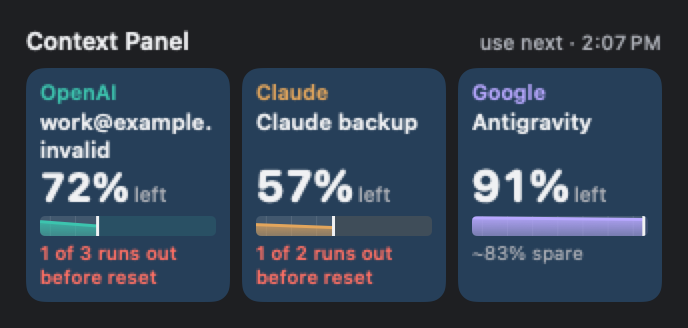
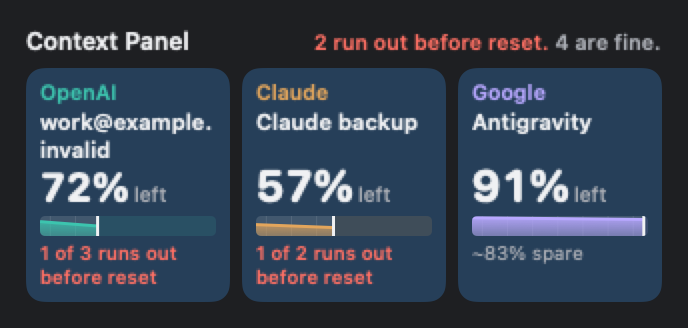
Review fixes: no reassurance past what is measured, empty windows, first-to-run-out window, headline first on widgets

Changed region(s): [[0.4578, 0.0915, 0.9767, 0.1524]]

diff --git a/Sources/ContextPanelCore/AccountPresentation.swift b/Sources/ContextPanelCore/AccountPresentation.swift
@@ -77,9 +77,10 @@ public enum AccountTerms {
     /// The combined outlook, true whatever each plan's size: "Week lasts to reset" when no account runs
     /// out before its own reset, "1 of 3 run out" (before their resets) when some do, "all out by Sat ~4 PM" when all do.
     public static func combinedOutlook(_ total: AccountProviderTotal, now: Date) -> String {
-        guard total.paceRatio != nil else { return measuring }
         if let date = total.allOutBy { return "all out by " + AccountPaceText.approximately(date, now: now) }
+        // A known run-out is said even while a sibling is still measuring.
         if total.runningOutCount > 0 { return "\(total.runningOutCount) of \(total.countedCount) run out" }
+        guard total.paceRatio != nil else { return measuring }
         return longColumn(weekly: total.longIsWeekly) + " " + lastsToReset
     }
     /// "1 of 2" beside a compact combined number when some accounts are not current; empty otherwise.
@@ -158,7 +159,8 @@ public enum AccountTerms {
         if othersFine {
             return (total == 1 ? "Your account lasts to its reset." : "All \(total) accounts last to their reset.", "")
         }
-        return ("Nothing runs out before its reset.", restParts(headline))
+        // Never reassure past what is measured: say how many are known to last, then the rest.
+        return ("\(headline.lastingCount) of \(total) accounts last to their reset.", restParts(headline, includingLasting: false))
     }
 
     /// The same sentence for a widget's few words: "2 run out before reset." / "4 are fine."
@@ -173,12 +175,12 @@ public enum AccountTerms {
         if headline.measuringCount == 0 && headline.notCurrentCount == 0 {
             return (headline.total == 1 ? "Lasts to reset." : "All \(headline.total) last to reset.", "")
         }
-        return ("None run out.", restParts(headline))
+        return ("\(headline.lastingCount) of \(headline.total) last to reset.", restParts(headline, includingLasting: false))
     }
 
-    private static func restParts(_ headline: AccountHeadline) -> String {
+    private static func restParts(_ headline: AccountHeadline, includingLasting: Bool = true) -> String {
         var parts: [String] = []
-        if headline.lastingCount > 0 { parts.append("\(headline.lastingCount) last\(headline.lastingCount == 1 ? "s" : "") to reset") }
+        if includingLasting, headline.lastingCount > 0 { parts.append("\(headline.lastingCount) last\(headline.lastingCount == 1 ? "s" : "") to reset") }
         if headline.measuringCount > 0 { parts.append("\(headline.measuringCount) \(measuring)") }
         if headline.notCurrentCount > 0 { parts.append("\(headline.notCurrentCount) not current") }
         return parts.joined(separator: ", ").prefix(1).uppercased() + parts.joined(separator: ", ").dropFirst() + "."
@@ -200,10 +202,12 @@ public enum AccountTerms {
     public static func outcome(_ account: AccountOverview.Account, _ horizon: AccountHorizon, now: Date) -> (title: String, detail: String) {
         guard horizon.isCurrent else { return (account.stateText, accountTiming(account, now: now)) }
         let resetText = horizon.window.flatMap { reset($0, now: now) }
+        let name = horizon.window.flatMap(horizonWindowName)
         if let runOut = horizon.runOutAt, let empty = horizon.emptyFor {
-            return (runsOut(runOut, now: now), "Empty " + AccountPaceText.span(empty) + (resetText.map { " until it resets " + $0 } ?? ""))
+            return ((name.map { $0 + " " } ?? "") + runsOut(runOut, now: now),
+                    "Empty " + AccountPaceText.span(empty) + (resetText.map { " until it resets " + $0 } ?? ""))
         }
-        let detail = resetText.map { resets + " " + $0 } ?? ""
+        let detail = resetText.map { (name.map { $0 + " resets " } ?? resets + " ") + $0 } ?? ""
         if let spare = horizon.spare { return (self.spare(spare), detail) }
         return (measuring, detail)
     }
@@ -215,9 +219,20 @@ public enum AccountTerms {
         return horizon.spare.map(spareShort) ?? measuring
     }
 
+    /// The horizon window's name when it is not the account-wide week ("Opus · Week", "Day"); nil for the plain week.
+    public static func horizonWindowName(_ window: AccountOverview.Window) -> String? {
+        window.modelLabel == nil && window.duration == 7 * 86_400 ? nil : window.shortLabel
+    }
+
+    /// "week left", or "Opus · Week left" when the horizon follows a model-only or other-length window.
+    public static func horizonLeft(_ window: AccountOverview.Window?) -> String {
+        window.flatMap(horizonWindowName).map { $0 + " " + left } ?? weekLeft
+    }
+
     /// Why the use-next account: "Resets Sat 9:07 PM · ~50% to spare".
     public static func useNextReason(_ account: AccountOverview.Account, _ horizon: AccountHorizon, now: Date) -> String {
-        [horizon.window.flatMap { reset($0, now: now) }.map { resets + " " + $0 }, horizon.spare.map(spare)]
+        [horizon.window.flatMap { window in reset(window, now: now).map { (horizonWindowName(window).map { $0 + " resets " } ?? resets + " ") + $0 } },
+         horizon.spare.map(spare)]
             .compactMap { $0 }.joined(separator: " · ")
     }
 

diff --git a/Sources/ContextPanelWidgetUI/AccountGlanceWidget.swift b/Sources/ContextPanelWidgetUI/AccountGlanceWidget.swift
@@ -102,7 +102,19 @@ struct AccountGlanceWidget: View {
         let headline = headline(overview)
         let roomy = picks.count <= 2
         return VStack(alignment: .leading, spacing: 0) {
-            header(trailing: picks.isEmpty ? nil : nextUpWord).padding(.bottom, 5)
+            header(trailing: picks.isEmpty ? nil : nextUpWord).padding(.bottom, 2)
+            HStack(alignment: .firstTextBaseline, spacing: 4) {
+                if headline.short {
+                    Circle().fill(palette.bad).frame(width: 6, height: 6).alignmentGuide(.firstTextBaseline) { $0[.bottom] }
+                }
+                Text(headline.lead)
+                    .font(.system(size: 10.5, weight: .semibold))
+                    .foregroundStyle(headline.short ? palette.bad : palette.secondary)
+                    .lineLimit(1).fixedSize(horizontal: false, vertical: true)
+            }
+            .accessibilityElement(children: .ignore)
+            .padding(.bottom, 5)
+            .accessibilityLabel([headline.lead, headline.rest].filter { !$0.isEmpty }.joined(separator: " "))
             if picks.isEmpty {
                 Text(AccountTerms.noEligibleAccount).font(.system(size: 11, weight: .medium))
                     .foregroundStyle(palette.secondary).fixedSize(horizontal: false, vertical: true)
@@ -124,17 +136,6 @@ struct AccountGlanceWidget: View {
                 .accessibilityElement(children: .ignore)
                 .accessibilityLabel("Banked reset for \(deadline.label) expires \(ContextPanelDateFormatting.accountReset(deadline.expiresAt))")
             }
-            HStack(alignment: .firstTextBaseline, spacing: 4) {
-                if headline.short {
-                    Circle().fill(palette.bad).frame(width: 6, height: 6).alignmentGuide(.firstTextBaseline) { $0[.bottom] }
-                }
-                Text(headline.lead)
-                    .font(.system(size: 10.5, weight: .semibold))
-                    .foregroundStyle(headline.short ? palette.bad : palette.secondary)
-                    .lineLimit(1).fixedSize(horizontal: false, vertical: true)
-            }
-            .accessibilityElement(children: .ignore)
-            .accessibilityLabel([headline.lead, headline.rest].filter { !$0.isEmpty }.joined(separator: " "))
         }
     }
 
@@ -172,7 +173,16 @@ struct AccountGlanceWidget: View {
         let picks = picks(overview)
         let totals = overview.providerTotals(now: now)
         return VStack(alignment: .leading, spacing: 6) {
-            header(trailing: nextUpWord + " · " + AccountPaceText.when(now, now: now))
+            let headline = headline(overview)
+            HStack(alignment: .firstTextBaseline, spacing: 6) {
+                Text(AccountTerms.widgetTitle).font(.system(size: 12, weight: .semibold)).lineLimit(1).layoutPriority(1)
+                Spacer(minLength: 4)
+                (Text(headline.lead).foregroundStyle(headline.short ? palette.bad : palette.secondary)
+                 + Text(headline.rest.isEmpty ? "" : " " + headline.rest).foregroundStyle(palette.secondary))
+                    .font(.system(size: 10.5, weight: .semibold)).lineLimit(1).minimumScaleFactor(0.85)
+            }
+            .accessibilityElement(children: .ignore)
+            .accessibilityLabel([AccountTerms.widgetTitle, headline.lead, headline.rest].filter { !$0.isEmpty }.joined(separator: " "))
             HStack(alignment: .top, spacing: 6) {
                 ForEach(picks, id: \.provider) { pick in
                     let card = mediumCard(pick.provider, account: pick.account,
@@ -314,7 +324,7 @@ struct AccountGlanceWidget: View {
                         Text(AccountTerms.resets + " " + reset)
                         Text(reset)
                     }
-                    .font(.system(size: 8)).foregroundStyle(palette.tertiary)
+                    .font(.system(size: 9)).foregroundStyle(palette.tertiary)
                 }
             }
             .monospacedDigit().lineLimit(1).frame(width: 93, alignment: .trailing)
@@ -341,7 +351,7 @@ struct AccountGlanceWidget: View {
             : account.metadata.useLast ? Text(AccountTerms.useLast.lowercased()).foregroundStyle(palette.tertiary) : nil
         let rest = Text((tag == nil || facts.isEmpty ? "" : " · ") + facts.joined(separator: " · ")).foregroundStyle(palette.secondary)
         return (tag.map { $0 + rest } ?? rest)
-            .font(.system(size: 8.5)).monospacedDigit().lineLimit(1).fixedSize()
+            .font(.system(size: 9)).monospacedDigit().lineLimit(1).fixedSize()
     }
 
     /// The single callout: a banked reset that lapses before its account runs out; else the next banked expiry.

diff --git a/Tests/ContextPanelCoreTests/AccountProviderTotalTests.swift b/Tests/ContextPanelCoreTests/AccountProviderTotalTests.swift
@@ -68,11 +68,15 @@ private func totalsOverview(_ rows: [(String, Provider, Int, Double, Double?, Do
 }
 
 @Test func providerTotalNeedsEveryCurrentAccountsBurnAndSkipsSavedOnes() throws {
-    // b has no observed burn: a partial set would understate the combined burn, so no pace.
+    // b has no observed burn: a partial set would understate the combined burn, so no pace;
+    // a's own run-out is still known and counted.
     let measuring = try #require(totalsOverview([("a", .openAI, 50, 100, 1.0, 0), ("b", .openAI, 50, 100, nil, 0)])
         .providerTotals(now: totalsNow).first)
-    #expect(measuring.paceRatio == nil && measuring.runningOutCount == 0)
-    #expect(AccountTerms.combinedOutlook(measuring, now: totalsNow) == AccountTerms.measuring)
+    #expect(measuring.paceRatio == nil && measuring.runningOutCount == 1)
+    #expect(AccountTerms.combinedOutlook(measuring, now: totalsNow) == "1 of 2 run out")
+    let calm = try #require(totalsOverview([("a", .openAI, 10, 100, 0.1, 0), ("b", .openAI, 50, 100, nil, 0)])
+        .providerTotals(now: totalsNow).first)
+    #expect(AccountTerms.combinedOutlook(calm, now: totalsNow) == AccountTerms.measuring)
 
     // b is saved (observed long ago): listed, not added, and compact surfaces say so.
     let saved = try #require(totalsOverview([("a", .openAI, 50, 100, 1.0, 0), ("b", .openAI, 0, 100, 1.0, 48)])
@@ -157,4 +161,27 @@ private func totalsOverview(_ rows: [(String, Provider, Int, Double, Double?, Do
     #expect(abs(geometry.fillEndX - 20.0 / 168) < 0.0001)
     #expect(abs((geometry.emptyRange?.upperBound ?? 0) - 100.0 / 168) < 0.0001)
     #expect(geometry.resetX == geometry.emptyRange?.upperBound)
+}
+
+@Test func horizonNeverReassuresPastWhatIsMeasured() {
+    // One account lasts, one is still measuring: the lead must not say nothing runs out.
+    let overview = totalsOverview([("a", .openAI, 10, 50, 0.1, 0), ("b", .openAI, 10, 50, nil, 0)])
+    let sentence = AccountTerms.headline(overview.headline(now: totalsNow))
+    #expect(sentence.lead == "1 of 2 accounts last to their reset.")
+    #expect(sentence.rest == "1 measuring.")
+    #expect(AccountTerms.compactHeadline(overview.headline(now: totalsNow)).lead == "1 of 2 last to reset.")
+}
+
+@Test func horizonCountsAnEmptyWeekAsRunningOutNow() throws {
+    // 0% left with no burn after exhaustion: already out, not "fine".
+    let account = try #require(totalsOverview([("a", .openAI, 100, 50, 0.0, 0)]).accounts.first)
+    let horizon = account.horizon(now: totalsNow)
+    #expect(horizon.runOutAt == totalsNow && horizon.runsOutBeforeReset)
+}
+
+@Test func providerLineKeepsAKnownRunOutWhileASiblingMeasures() throws {
+    let total = try #require(totalsOverview([("a", .openAI, 80, 100, 1.0, 0), ("b", .openAI, 10, 50, nil, 0)])
+        .providerTotals(now: totalsNow).first)
+    #expect(total.runningOutCount == 1)
+    #expect(AccountTerms.providerSummary(total, now: totalsNow).isShort)
 }

diff --git a/Sources/ContextPanelCore/AccountPace.swift b/Sources/ContextPanelCore/AccountPace.swift
@@ -170,10 +170,11 @@ public extension AccountOverview {
                 }
                 burn = total / Double(longs.count)
                 pace = even > 0 ? total / even : (total > 0 ? .infinity : 0)
-                let runOuts = longs.compactMap { $0.projectedRunOut(now: now) }
-                runningOut = runOuts.count
+                let runOuts = counted.compactMap { $0.horizon(now: now).runOutAt }
                 allOutBy = runOuts.count == longs.count ? runOuts.max() : nil
             }
+            // A known run-out is counted even while a sibling is still measuring, so the provider line never hides it.
+            runningOut = counted.filter { $0.horizon(now: now).runsOutBeforeReset }.count
             return AccountProviderTotal(
                 provider: provider, accountCount: all.count, countedCount: counted.count,
                 longRemaining: complete ? mean(longs.compactMap(\.remainingFraction)) : nil,
@@ -293,12 +294,26 @@ public struct AccountHorizon: Equatable, Sendable {
 }
 
 public extension AccountOverview.Account {
+    /// The long window the horizon follows: the one that runs out first before its reset at the observed burn,
+    /// else the tightest long window, so neither a fast-burning model limit nor the limiting window is hidden.
+    func horizonWindow(now: Date) -> AccountOverview.Window? {
+        guard isReliable else { return longWindow }
+        let long = windows.filter { $0.id != shortWindow?.id }
+        return long.compactMap { window in Self.runOut(window, now: now).map { (window, $0) } }.min { $0.1 < $1.1 }?.0 ?? longWindow
+    }
+
+    /// Run-out before the reset: projected from the observed burn, or now when the window is already empty.
+    private static func runOut(_ window: AccountOverview.Window, now: Date) -> Date? {
+        if let remaining = window.remainingFraction, remaining <= 0, (window.naturalResetAt ?? .distantPast) > now { return now }
+        return window.projectedRunOut(now: now)
+    }
+
     func horizon(now: Date) -> AccountHorizon {
-        let window = longWindow
+        let window = horizonWindow(now: now)
         let current = isReliable
         let reset = window?.naturalResetAt.flatMap { $0 > now ? $0 : nil }
         let burn = current ? window?.burnFractionPerHour : nil
-        let runOut = current ? window?.projectedRunOut(now: now) : nil
+        let runOut = current ? window.flatMap { Self.runOut($0, now: now) } : nil
         let spare: Double? = if runOut != nil { 0 } else if let burn, let reset, let remaining = window?.remainingFraction {
             max(0, remaining - burn * reset.timeIntervalSince(now) / 3_600)
         } else { nil }

diff --git a/Sources/ContextPanelSettingsUI/AccountDashboardViews.swift b/Sources/ContextPanelSettingsUI/AccountDashboardViews.swift
@@ -117,7 +117,7 @@ public struct AccountDashboardPanel: View {
                             if horizon.remaining != nil {
                                 Text("%").font(.system(size: 16, weight: .semibold, design: .rounded)).foregroundStyle(palette.secondary)
                             }
-                            Text(AccountTerms.weekLeft).font(.system(size: 13, weight: .medium)).foregroundStyle(palette.secondary)
+                            Text(AccountTerms.horizonLeft(horizon.window)).font(.system(size: 13, weight: .medium)).foregroundStyle(palette.secondary)
                         }
                     }
                     Text(AccountTerms.useNextReason(account, horizon, now: now))
@@ -136,7 +136,7 @@ public struct AccountDashboardPanel: View {
         .disabled(account == nil)
         .accessibilityElement(children: .ignore)
         .accessibilityLabel(provider.accountDisplayName + ", " + AccountTerms.useNext + ", " + (account.map {
-            $0.metadata.label + ", " + AccountNumbers.percentWithSign($0.horizon(now: now).remaining) + " " + AccountTerms.weekLeft + ", "
+            $0.metadata.label + ", " + AccountNumbers.percentWithSign($0.horizon(now: now).remaining) + " " + AccountTerms.horizonLeft($0.horizon(now: now).window) + ", "
                 + AccountTerms.useNextReason($0, $0.horizon(now: now), now: now) } ?? AccountTerms.noEligibleAccount))
     }
 

diff --git a/Sources/ContextPanelWatchSupport/WatchAccountViews.swift b/Sources/ContextPanelWatchSupport/WatchAccountViews.swift
@@ -75,6 +75,10 @@ public struct WatchAccountRow: View {
                 }
             }
             .font(.system(size: 12)).monospacedDigit().lineLimit(1)
+            if horizon.isCurrent, let reset = horizon.window.flatMap({ AccountTerms.reset($0, now: now) }) {
+                Text(AccountTerms.resets + " " + reset).font(.system(size: 11)).monospacedDigit()
+                    .foregroundStyle(WatchTokens.color(.secondary)).lineLimit(1)
+            }
         }
         .padding(.vertical, 2)
         .accessibilityElement(children: .ignore)

diff --git a/docs/evidence/722-horizon/README.md b/docs/evidence/722-horizon/README.md
@@ -11,8 +11,11 @@ files only: `Sources/ContextPanelCore/AccountPresentation.swift` (words, colours
 
 - **One sentence first:** `AccountOverview.headline(now:)` + `AccountTerms.headline` /
   `compactHeadline`. "2 accounts run out before they reset. The other 4 are fine." Only current readings
-  with observed burn count as fine; others are counted as "measuring" or "not current".
-- **Horizon per account:** `Account.horizon(now:)` follows the long (Week) window: share left now,
+  with observed burn count as fine. When some are measuring or not current, the lead says how many are known
+  to last ("4 of 6 accounts last to their reset.") instead of reassuring.
+- **Horizon per account:** `Account.horizon(now:)` follows the long window that runs out first before its
+  reset (a fast-burning model limit is never hidden), else the tightest long window. A window already at 0% counts
+  as out now. When it is not the account-wide week, its name is said ("Opus · Week resets …"). It shows: share left now,
   observed burn, run-out if it comes before the reset, share to spare at the reset. `geometry(now:deadlines:)`
   gives every surface the same shape as fractions, so the Mac, widgets, iPhone, Watch, TV and Deadlines
   draw one picture at different sizes.
